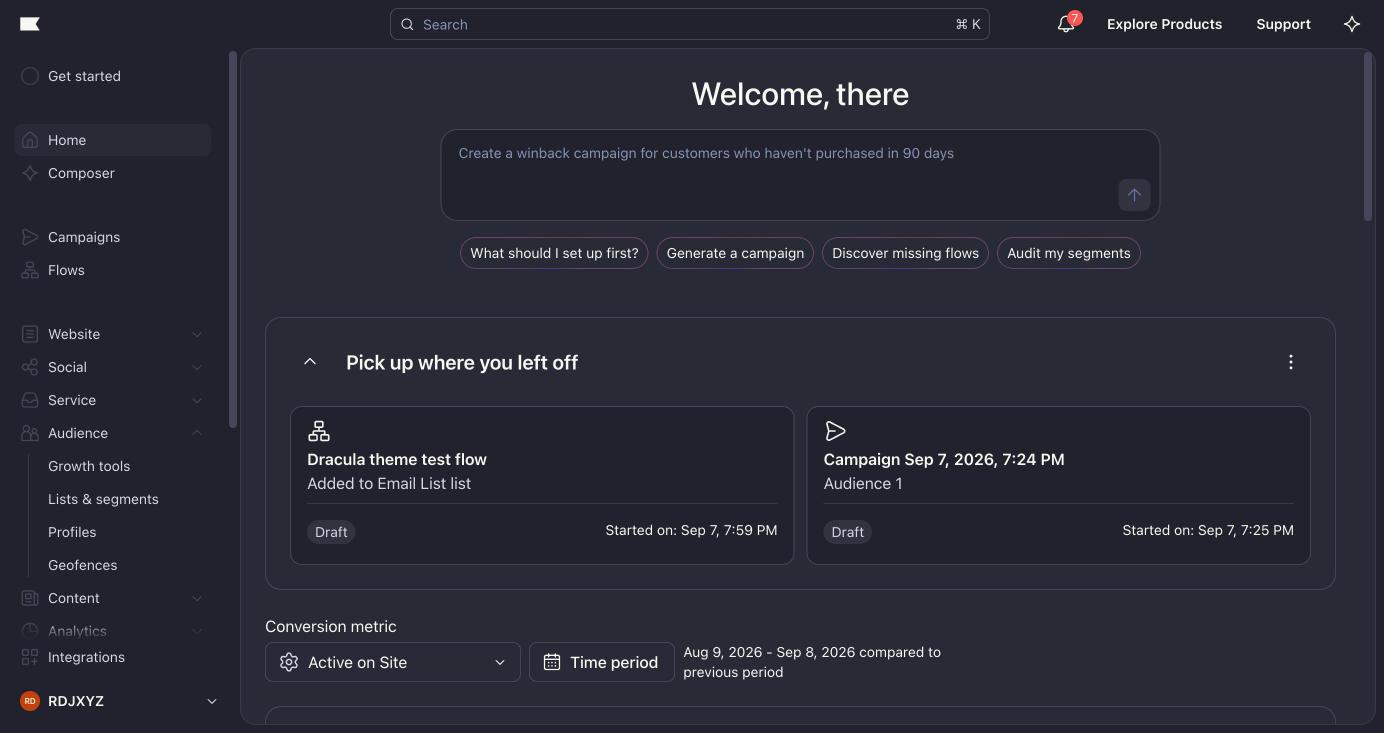
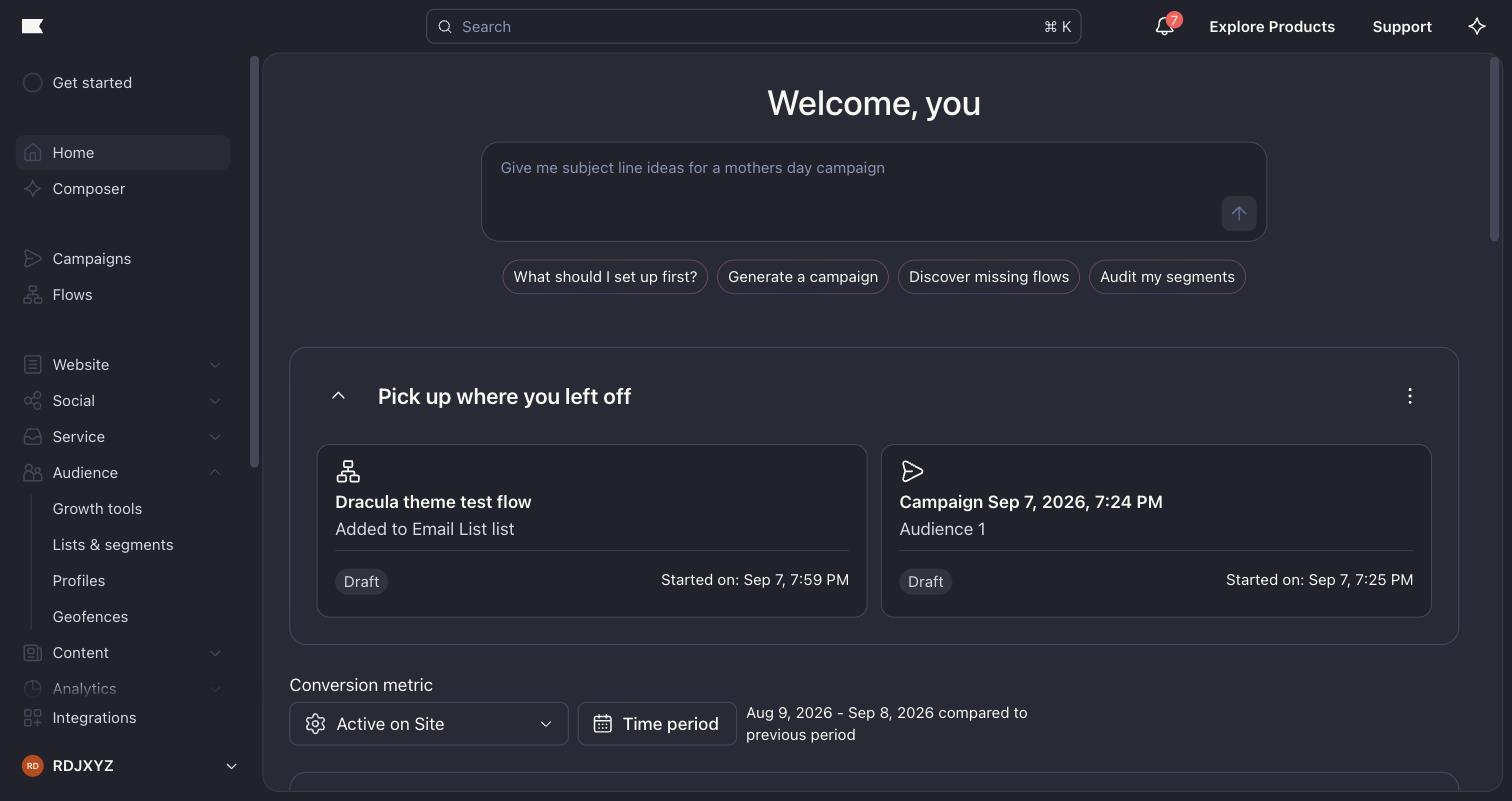
README: more screens per style, greeting shows "you"
Claude-Session: https://claude.ai/code/session_01Q1uQUD6RZBykL5svoneXei

diff --git a/README.md b/README.md
@@ -11,7 +11,9 @@
 
 claude.ai in dark mode: chat, Claude Code, and the artifact viewer. Remaps the site's own colour ramps, so every surface, accent and status colour follows the palette, with a purple-to-navy page gradient.
 
-![claude.ai with the Dracula userstyle](screenshots/claude.jpg)
+![claude.ai chat with the Dracula userstyle](screenshots/claude.jpg)
+
+![Claude Code on claude.ai with the Dracula userstyle](screenshots/claude-code.jpg)
 
 [![Install with Stylus](https://img.shields.io/badge/Install-with_Stylus-bd93f9?style=for-the-badge&labelColor=282a36)](https://raw.githubusercontent.com/rdjxyz/dracula-userstyles/main/claude-dracula.user.css)
 
@@ -27,7 +29,11 @@ Layers on Gmail's built-in Dark theme (Settings, Themes, Dark). Recolours the li
 
 The Klaviyo app, built on Klaviyo's own design tokens so the theme follows its component semantics. The email template editor canvas is left untouched so your designs stay true.
 
-![Klaviyo with the Dracula userstyle](screenshots/klaviyo.jpg)
+![Klaviyo home with the Dracula userstyle](screenshots/klaviyo.jpg)
+
+![Klaviyo flow editor with the Dracula userstyle](screenshots/klaviyo-flow.jpg)
+
+![Klaviyo email editor with the Dracula userstyle, canvas left untouched](screenshots/klaviyo-email.jpg)
 
 [![Install with Stylus](https://img.shields.io/badge/Install-with_Stylus-bd93f9?style=for-the-badge&labelColor=282a36)](https://raw.githubusercontent.com/rdjxyz/dracula-userstyles/main/klaviyo-dracula.user.css)
 
